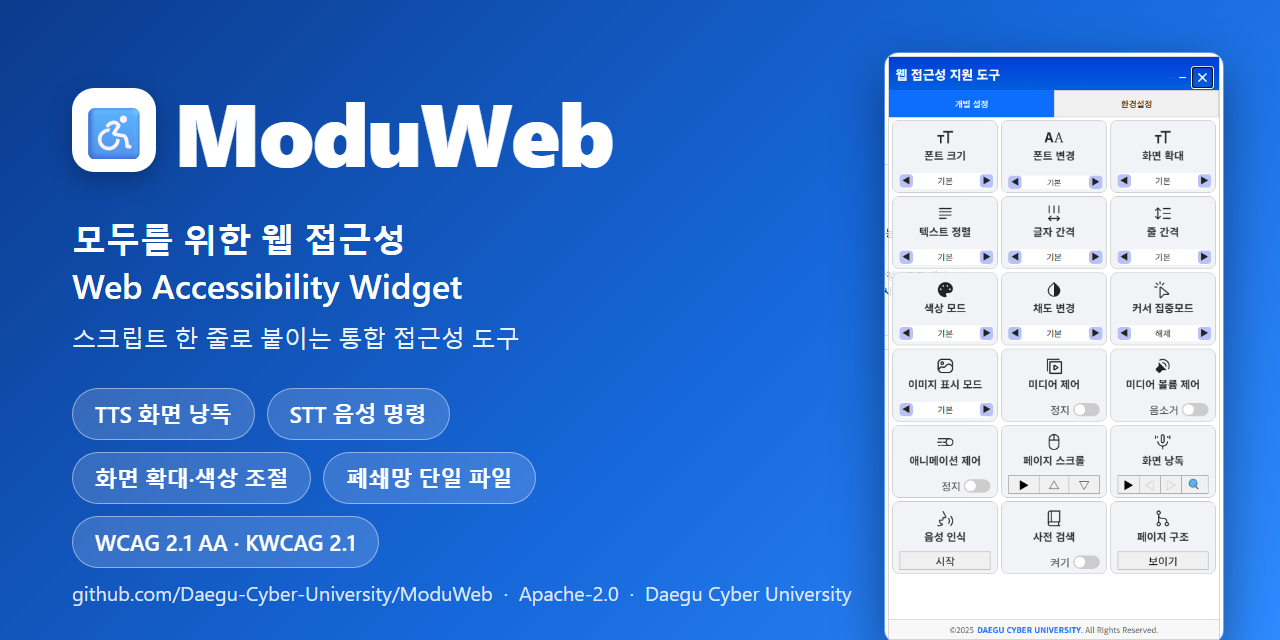
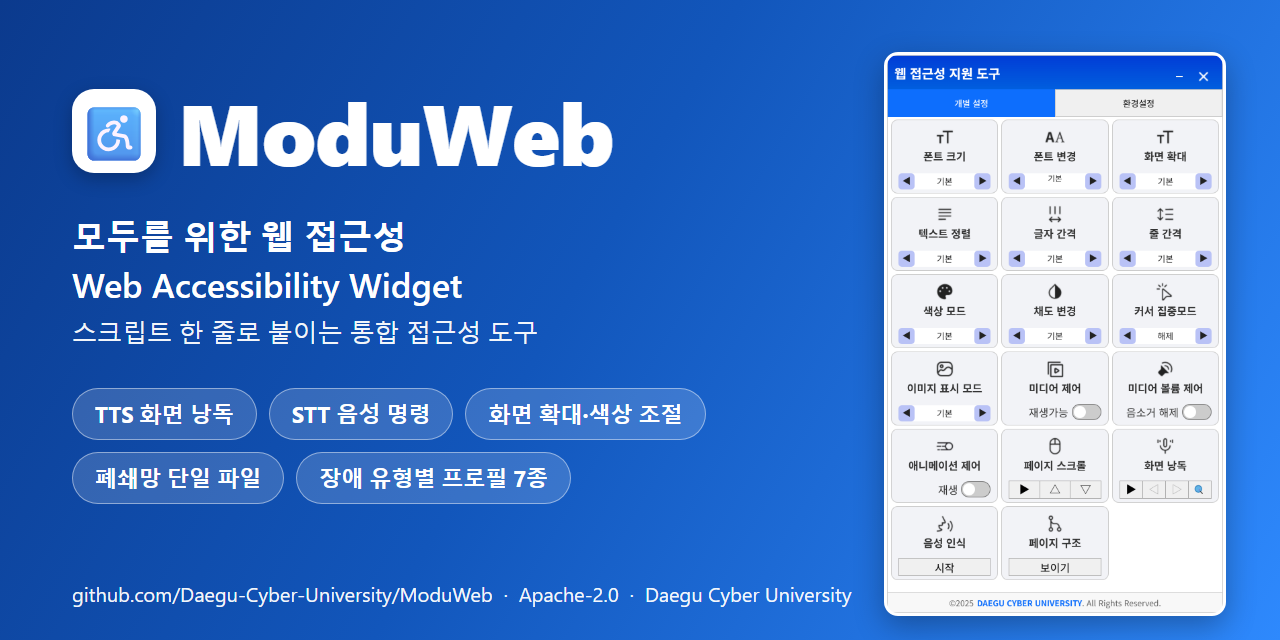
Docs: README 스크린샷을 다시 찍고 본문을 v2.3.11 코드에 맞춤
스크린샷
- panel-main.png: 패널이 본문을 덮지 않게 본문을 왼쪽에 두고, 어둡게 모드와
  폰트 1.5배를 적용한 화면으로 다시 찍음. 데모처럼 사전 검색 항목이 없는 상태
- panel-styled.png·panel-settings.png를 지우고 패널만 세로로 자른
  panel-custom-colors.png(내 색상 대비 경고와 7:1 추천)·panel-profiles.png(프로필 7종)로 바꿈.
  표 두 칸에 1600×900을 넣어 글자가 안 보이던 문제를 없앰
- 모두 2배율로 찍어 256색 PNG로 줄임(장당 52~107KB)
- social-preview.png: 오른쪽 패널을 현재 버전으로 바꾸고, 다섯째 태그를
  'WCAG 2.1 AA · KWCAG 2.1'에서 '장애 유형별 프로필 7종'으로 바꿈

본문
- 프로필 7종, 내 색상, 이미지 표시 모드, 페이지 스크롤, 6개 언어 반영
- 코드에 없는 '읽기 모드(단순화된 화면)'와 wat.changeTTSSpeed() 삭제,
  wat.getTTSSpeechRate() 추가
- 고정 버전 예시를 @v2.3.11로, 소스 구조 표에 내 색상 모듈 추가
- 'WCAG 2.1 AA 준수/compliant'를 '목표로 개발/Built to'로, '조작 요소 166개
  미달 0건'(v2.3.4 때 수치)을 'WCAG 2.2 AA 기준으로 점검하고 CHANGELOG에 기록'으로 완화

diff --git a/README.en.md b/README.en.md
@@ -11,20 +11,23 @@
 
 **🔗 Live Demo: <https://daegu-cyber-university.github.io/ModuWeb/>**
 
-[![ModuWeb accessibility panel screenshot](docs/assets/screenshots/panel-main.png)](https://daegu-cyber-university.github.io/ModuWeb/)
+[![The ModuWeb panel open on its personal settings tab, next to an example page with the dark color mode and 1.5× font size applied](docs/assets/screenshots/panel-main.png)](https://daegu-cyber-university.github.io/ModuWeb/)
 
 ## Why ModuWeb?
 
 - **One-line install** — a single `<script>` tag with `data-wat-auto`. No build step, no framework required.
 - **Works offline / in air-gapped networks** — `webAccTools.standalone.min.js` inlines CSS, icons and Korean locale data into **one file**. No external network needed.
 - **TTS & STT without API keys** — screen reading and voice commands run on the browser's Web Speech API. Nothing to sign up for, nothing to pay.
-- **WCAG 2.1 AA · KWCAG 2.1** — designed for both the international standard and the Korean government accessibility standard, making it a fit for Korean public-sector sites. The panel UI itself is checked against WCAG 2.2 AA, including measured 24×24 CSS px target sizes across all 166 controls.
+- **Built to WCAG 2.1 AA · KWCAG 2.1** — designed around both the international standard and the Korean government accessibility standard, making it a fit for Korean public-sector sites. The panel UI itself is audited against WCAG 2.2 AA (target size, contrast, focus management), and issues found are fixed and logged in the [CHANGELOG](CHANGELOG.md).
 - **6 UI languages** — Korean, English (US/GB), Japanese, Chinese, German.
-- **Accessibility profiles** — one-click presets for low vision, color blindness, and dyslexia.
+- **7 accessibility profiles** — one-click presets for low vision, color blindness, dyslexia, visual impairment, seniors, motion sensitivity and physical disability.
+- **Custom colors** — visitors pick their own background and text colors; the panel shows the contrast ratio and suggests a 7:1 counterpart color (WCAG 1.4.8).
 
-| Dark mode + 1.5× font applied | Accessibility profiles |
+| Custom colors — suggests a 7:1 pair when contrast is low | 7 accessibility profiles |
 |---|---|
-| ![Page with dark color theme and enlarged font](docs/assets/screenshots/panel-styled.png) | ![Profile settings for low vision, color blindness, dyslexia](docs/assets/screenshots/panel-settings.png) |
+| ![The custom colors editor on the settings tab: after switching the background to navy, it warns that the contrast with the dark brown text is only 1.2:1 and suggests a light orange text color at 7.0:1](docs/assets/screenshots/panel-custom-colors.png) | ![The profile list on the settings tab: seven profiles, with low vision switched on and its options (font size, typeface, letter spacing) expanded](docs/assets/screenshots/panel-profiles.png) |
+
+<sub>The screenshots show the Korean UI; the panel also ships in English (US/GB), Japanese, Chinese and German.</sub>
 
 ## Quick Start
 
@@ -34,7 +37,7 @@
 <script src="https://cdn.jsdelivr.net/gh/Daegu-Cyber-University/ModuWeb@2/dist/webAccTools.standalone.min.js" data-wat-auto></script>
 ```
 
-`@2` serves the latest 2.x release, so new releases reach your site without downloading anything. Use `@2.3` to receive patch releases only, or a tag such as `@v2.3.10` to pin a version. Don't use `@main`: it serves unreleased commits. A new release can take up to 7 days to reach every visitor (jsDelivr's version-range cache plus browser caches); purging the CDN cache with the [jsDelivr purge tool](https://www.jsdelivr.com/tools/purge) makes new visitors get it right away. jsDelivr also serves the other locales with an `Access-Control-Allow-Origin` header, so no server setup is needed.
+`@2` serves the latest 2.x release, so new releases reach your site without downloading anything. Use `@2.3` to receive patch releases only, or a tag such as `@v2.3.11` to pin a version. Don't use `@main`: it serves unreleased commits. A new release can take up to 7 days to reach every visitor (jsDelivr's version-range cache plus browser caches); purging the CDN cache with the [jsDelivr purge tool](https://www.jsdelivr.com/tools/purge) makes new visitors get it right away. jsDelivr also serves the other locales with an `Access-Control-Allow-Origin` header, so no server setup is needed.
 
 Configure declaratively with `data-wat-*` attributes:
 
@@ -103,13 +106,13 @@ For IIS add the same header under `system.webServer/httpProtocol/customHeaders` 
 
 | Category | Features |
 |---|---|
-| Visual | Font size / typeface, text alignment & spacing, full-page magnification |
-| Color | High-contrast themes, color inversion, saturation control, custom text/background colors with contrast suggestions |
-| Focus | Cursor highlighting, reading guide, media & animation control |
+| Visual | Font size / typeface, text alignment & spacing, full-page magnification, hiding images or showing their alt text |
+| Color | Light / dark / inverted color modes, custom text & background colors with 7:1 contrast suggestions, saturation control, red/green color-blindness correction |
+| Focus | Reading guide (mask / underline) and large cursor, media & animation control, auto page scroll |
 | Audio | TTS screen reading (auto / focus / keyboard modes), STT voice commands |
-| Extras | Dictionary lookup (shown only when a dictionary server endpoint is configured), simplified reading mode, page structure viewer |
+| Extras | Dictionary lookup (shown only when a dictionary server endpoint is configured), page structure viewer |
 | Keyboard | Full keyboard navigation, focus indicators, shortcuts |
-| Profiles | One-click presets per disability type, settings persistence, export/import |
+| Profiles | 7 one-click presets per disability type, settings persistence, export/import |
 
 ## Documentation
 
